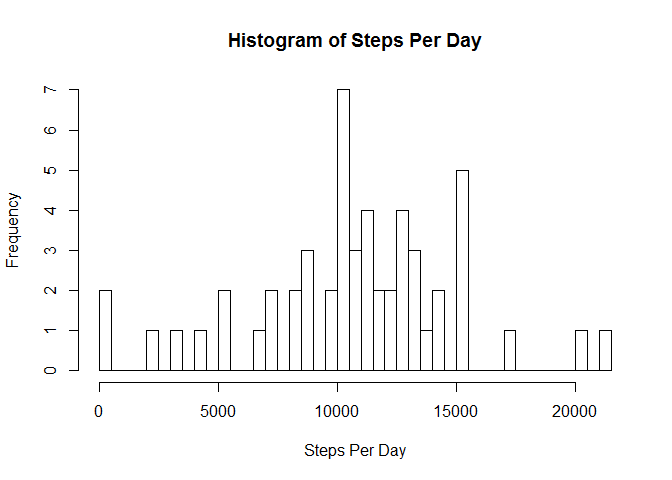
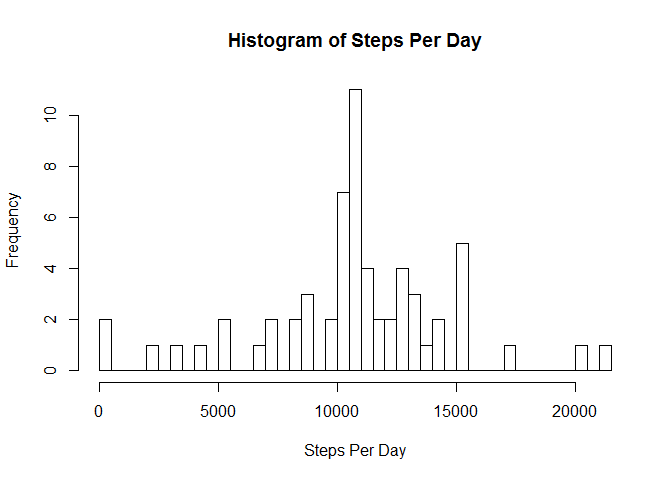
Small change

diff --git a/PA1_template.html b/PA1_template.html
@@ -186,7 +186,7 @@ segments(0, 206.2, 832, 206.2, col = &quot;red&quot;, lty = &quot;dashed&quot;)<
 <pre class="r"><code>## Missing values are replaced with the mean.
 
 newDate &lt;- activity
-newDate[is.na(activity$steps), ]$steps &lt;- mean(activity$steps)
+newDate[is.na(activity$steps), ]$steps &lt;- mean(activity$steps, na.rm=TRUE)
 
 newDate$dateAndTime &lt;- as.POSIXct(
     with(newDate, paste(date, paste(interval %/% 100, interval %% 100, sep=&quot;:&quot;))),
@@ -213,15 +213,15 @@ hist(
       main=&quot;Histogram of Steps Per Day&quot;,
       xlab = &quot;Steps Per Day&quot;
       )</code></pre>
[2 lines of base64/hex data omitted]
 <pre class="r"><code>print(paste(&quot;The mean:&quot;, mean(stepsPerDay2$steps)))</code></pre>
 <pre><code>## [1] &quot;The mean: 10766.1886792453&quot;</code></pre>
 <pre class="r"><code>print(paste(&quot;The median:&quot;, median(stepsPerDay2$steps)))</code></pre>
-<pre><code>## [1] &quot;The median: 10765&quot;</code></pre>
+<pre><code>## [1] &quot;The median: 10766.1886792453&quot;</code></pre>
 <pre class="r"><code>print(paste(&quot;The means difference:&quot;, mean(stepsPerDay2$steps)-mean(stepsPerDay$steps)))</code></pre>
 <pre><code>## [1] &quot;The means difference: 0&quot;</code></pre>
 <pre class="r"><code>print(paste(&quot;The medians difference:&quot;, median(stepsPerDay2$steps)-median(stepsPerDay$steps)))</code></pre>
-<pre><code>## [1] &quot;The medians difference: 0&quot;</code></pre>
+<pre><code>## [1] &quot;The medians difference: 1.1886792452824&quot;</code></pre>
 </div>
 <div id="are-there-differences-in-activity-patterns-between-weekdays-and-weekends" class="section level2">
 <h2>Are there differences in activity patterns between weekdays and weekends?</h2>
@@ -231,7 +231,7 @@ hist(
 <pre><code>## Warning: package 'ggplot2' was built under R version 3.2.3</code></pre>
 <pre class="r"><code>str(newDate)</code></pre>
 <pre><code>## 'data.frame':    17568 obs. of  4 variables:
-##  $ steps      : num  NA NA NA NA NA NA NA NA NA NA ...
+##  $ steps      : num  37.4 37.4 37.4 37.4 37.4 ...
 ##  $ date       : Factor w/ 61 levels &quot;2012-10-01&quot;,&quot;2012-10-02&quot;,..: 1 1 1 1 1 1 1 1 1 1 ...
 ##  $ interval   : int  0 5 10 15 20 25 30 35 40 45 ...
 ##  $ dateAndTime: POSIXct, format: &quot;2012-10-01 00:00:00&quot; &quot;2012-10-01 00:05:00&quot; ...</code></pre>
@@ -260,7 +260,7 @@ print(
         + geom_smooth(method=&quot;loess&quot;
         )
     )</code></pre>
[2 lines of base64/hex data omitted]
 </div>
 
 

diff --git a/PA1_template.md b/PA1_template.md
@@ -187,7 +187,7 @@ paste("Number of missing observations: ", sum(is.na(activity$steps)))
 ## Missing values are replaced with the mean.
 
 newDate <- activity
-newDate[is.na(activity$steps), ]$steps <- mean(activity$steps)
+newDate[is.na(activity$steps), ]$steps <- mean(activity$steps, na.rm=TRUE)
 
 newDate$dateAndTime <- as.POSIXct(
 	with(newDate, paste(date, paste(interval %/% 100, interval %% 100, sep=":"))),
@@ -231,7 +231,7 @@ print(paste("The median:", median(stepsPerDay2$steps)))
 ```
 
 ```
-## [1] "The median: 10765"
+## [1] "The median: 10766.1886792453"
 ```
 
 ```r
@@ -247,7 +247,7 @@ print(paste("The medians difference:", median(stepsPerDay2$steps)-median(stepsPe
 ```
 
 ```
-## [1] "The medians difference: 0"
+## [1] "The medians difference: 1.1886792452824"
 ```
 
 ##Are there differences in activity patterns between weekdays and weekends?
@@ -272,7 +272,7 @@ str(newDate)
 
 ```
 ## 'data.frame':	17568 obs. of  4 variables:
-##  $ steps      : num  NA NA NA NA NA NA NA NA NA NA ...
+##  $ steps      : num  37.4 37.4 37.4 37.4 37.4 ...
 ##  $ date       : Factor w/ 61 levels "2012-10-01","2012-10-02",..: 1 1 1 1 1 1 1 1 1 1 ...
 ##  $ interval   : int  0 5 10 15 20 25 30 35 40 45 ...
 ##  $ dateAndTime: POSIXct, format: "2012-10-01 00:00:00" "2012-10-01 00:05:00" ...
